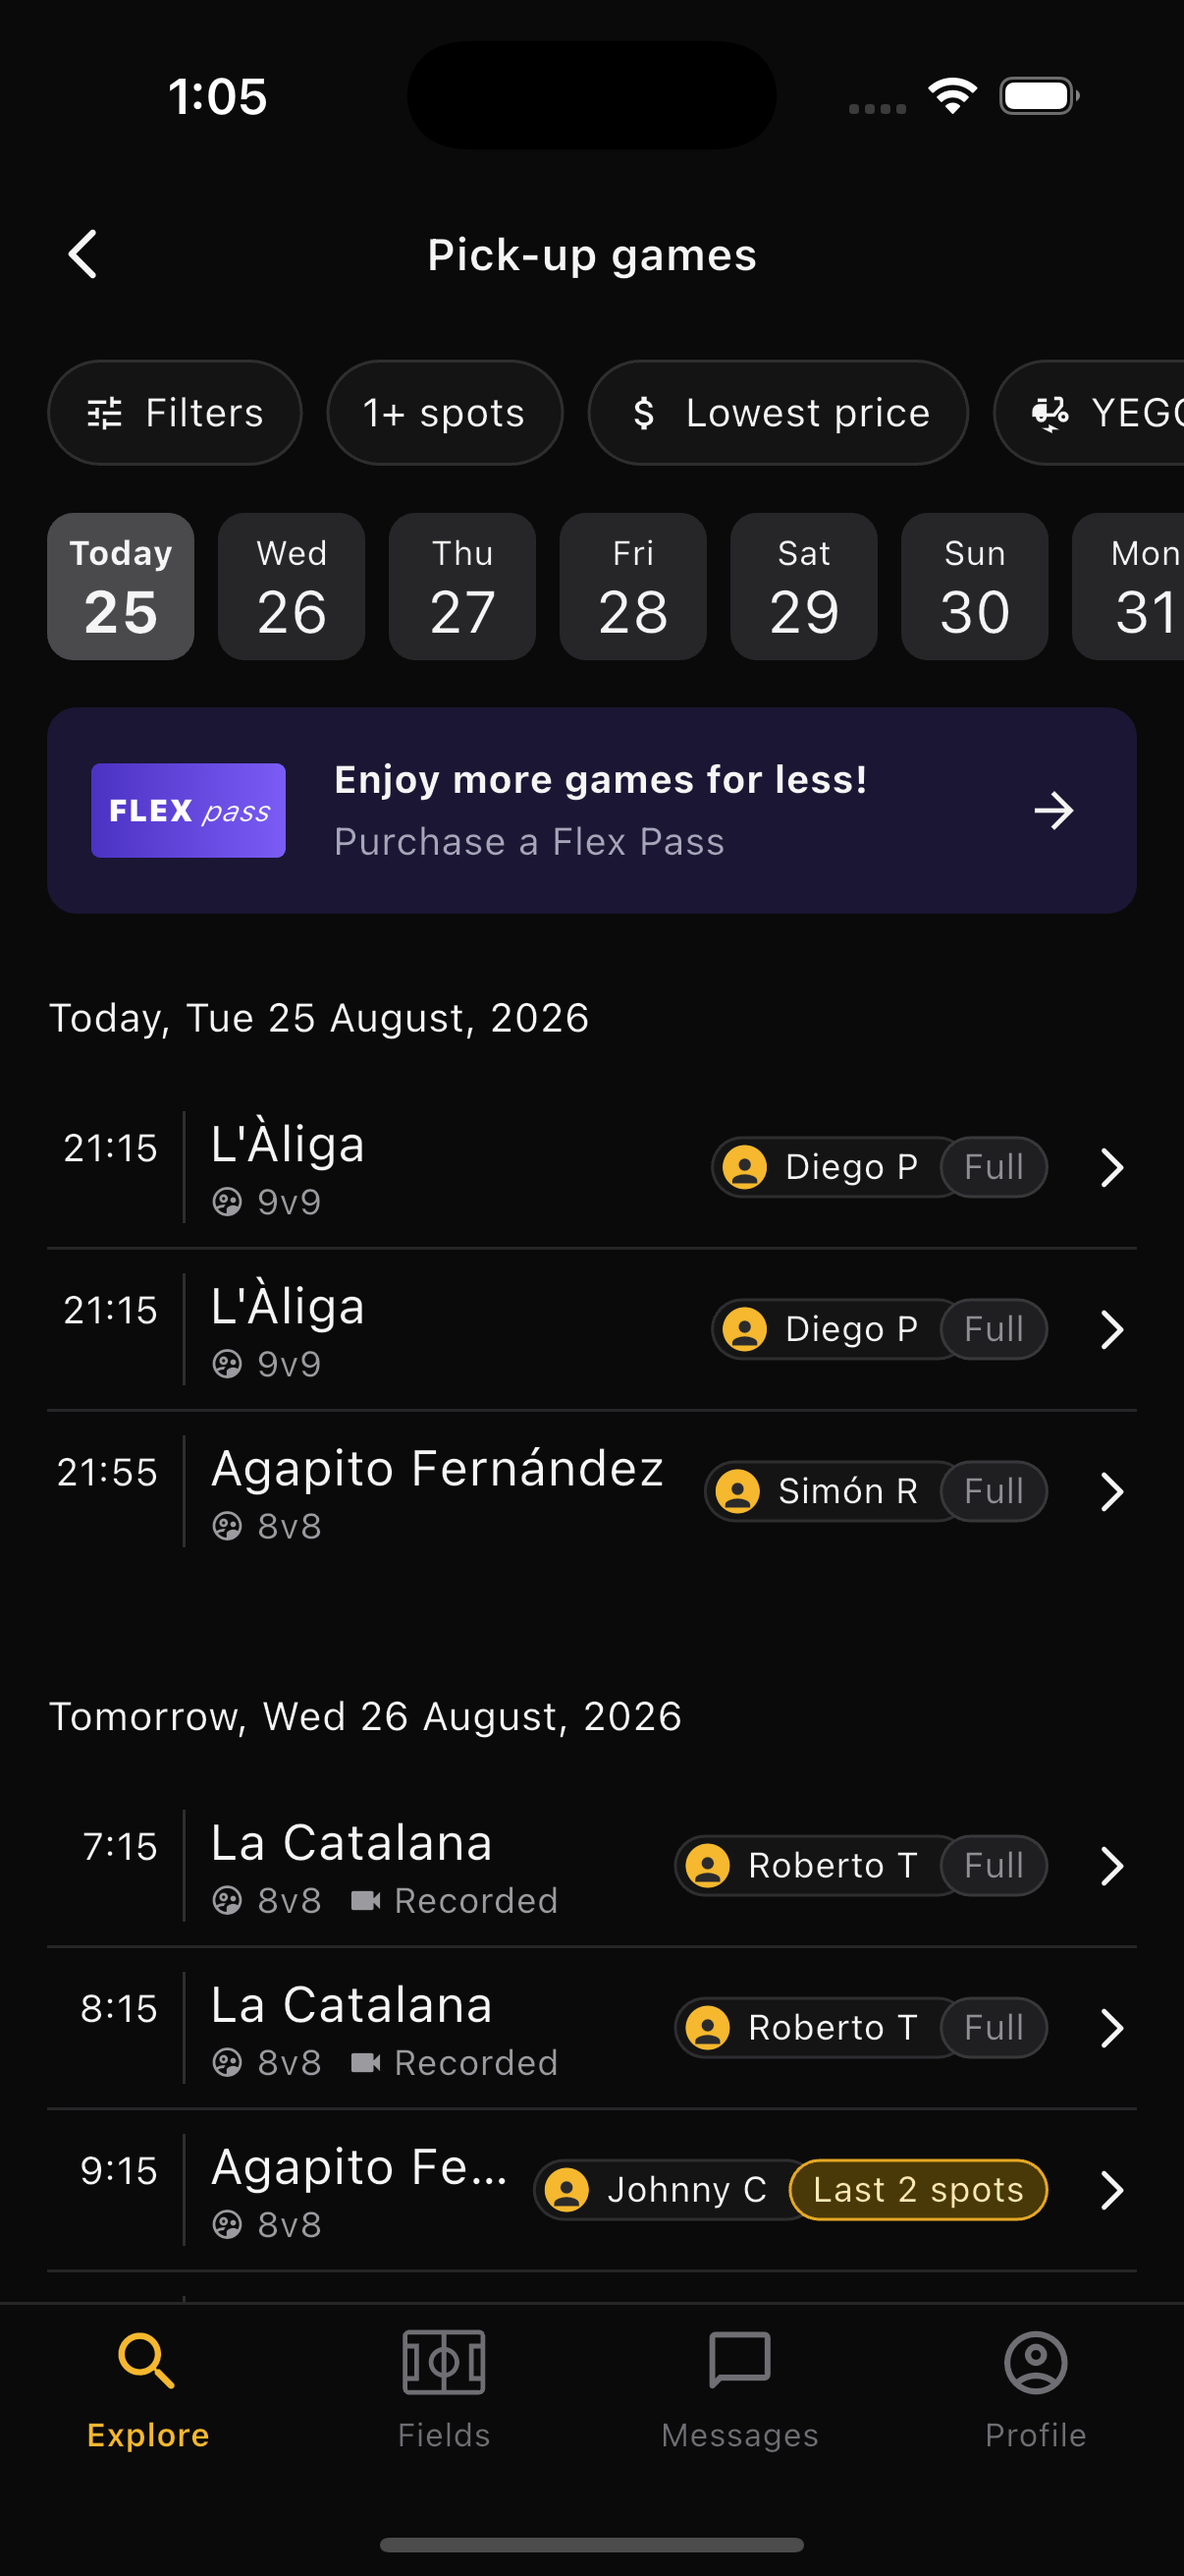
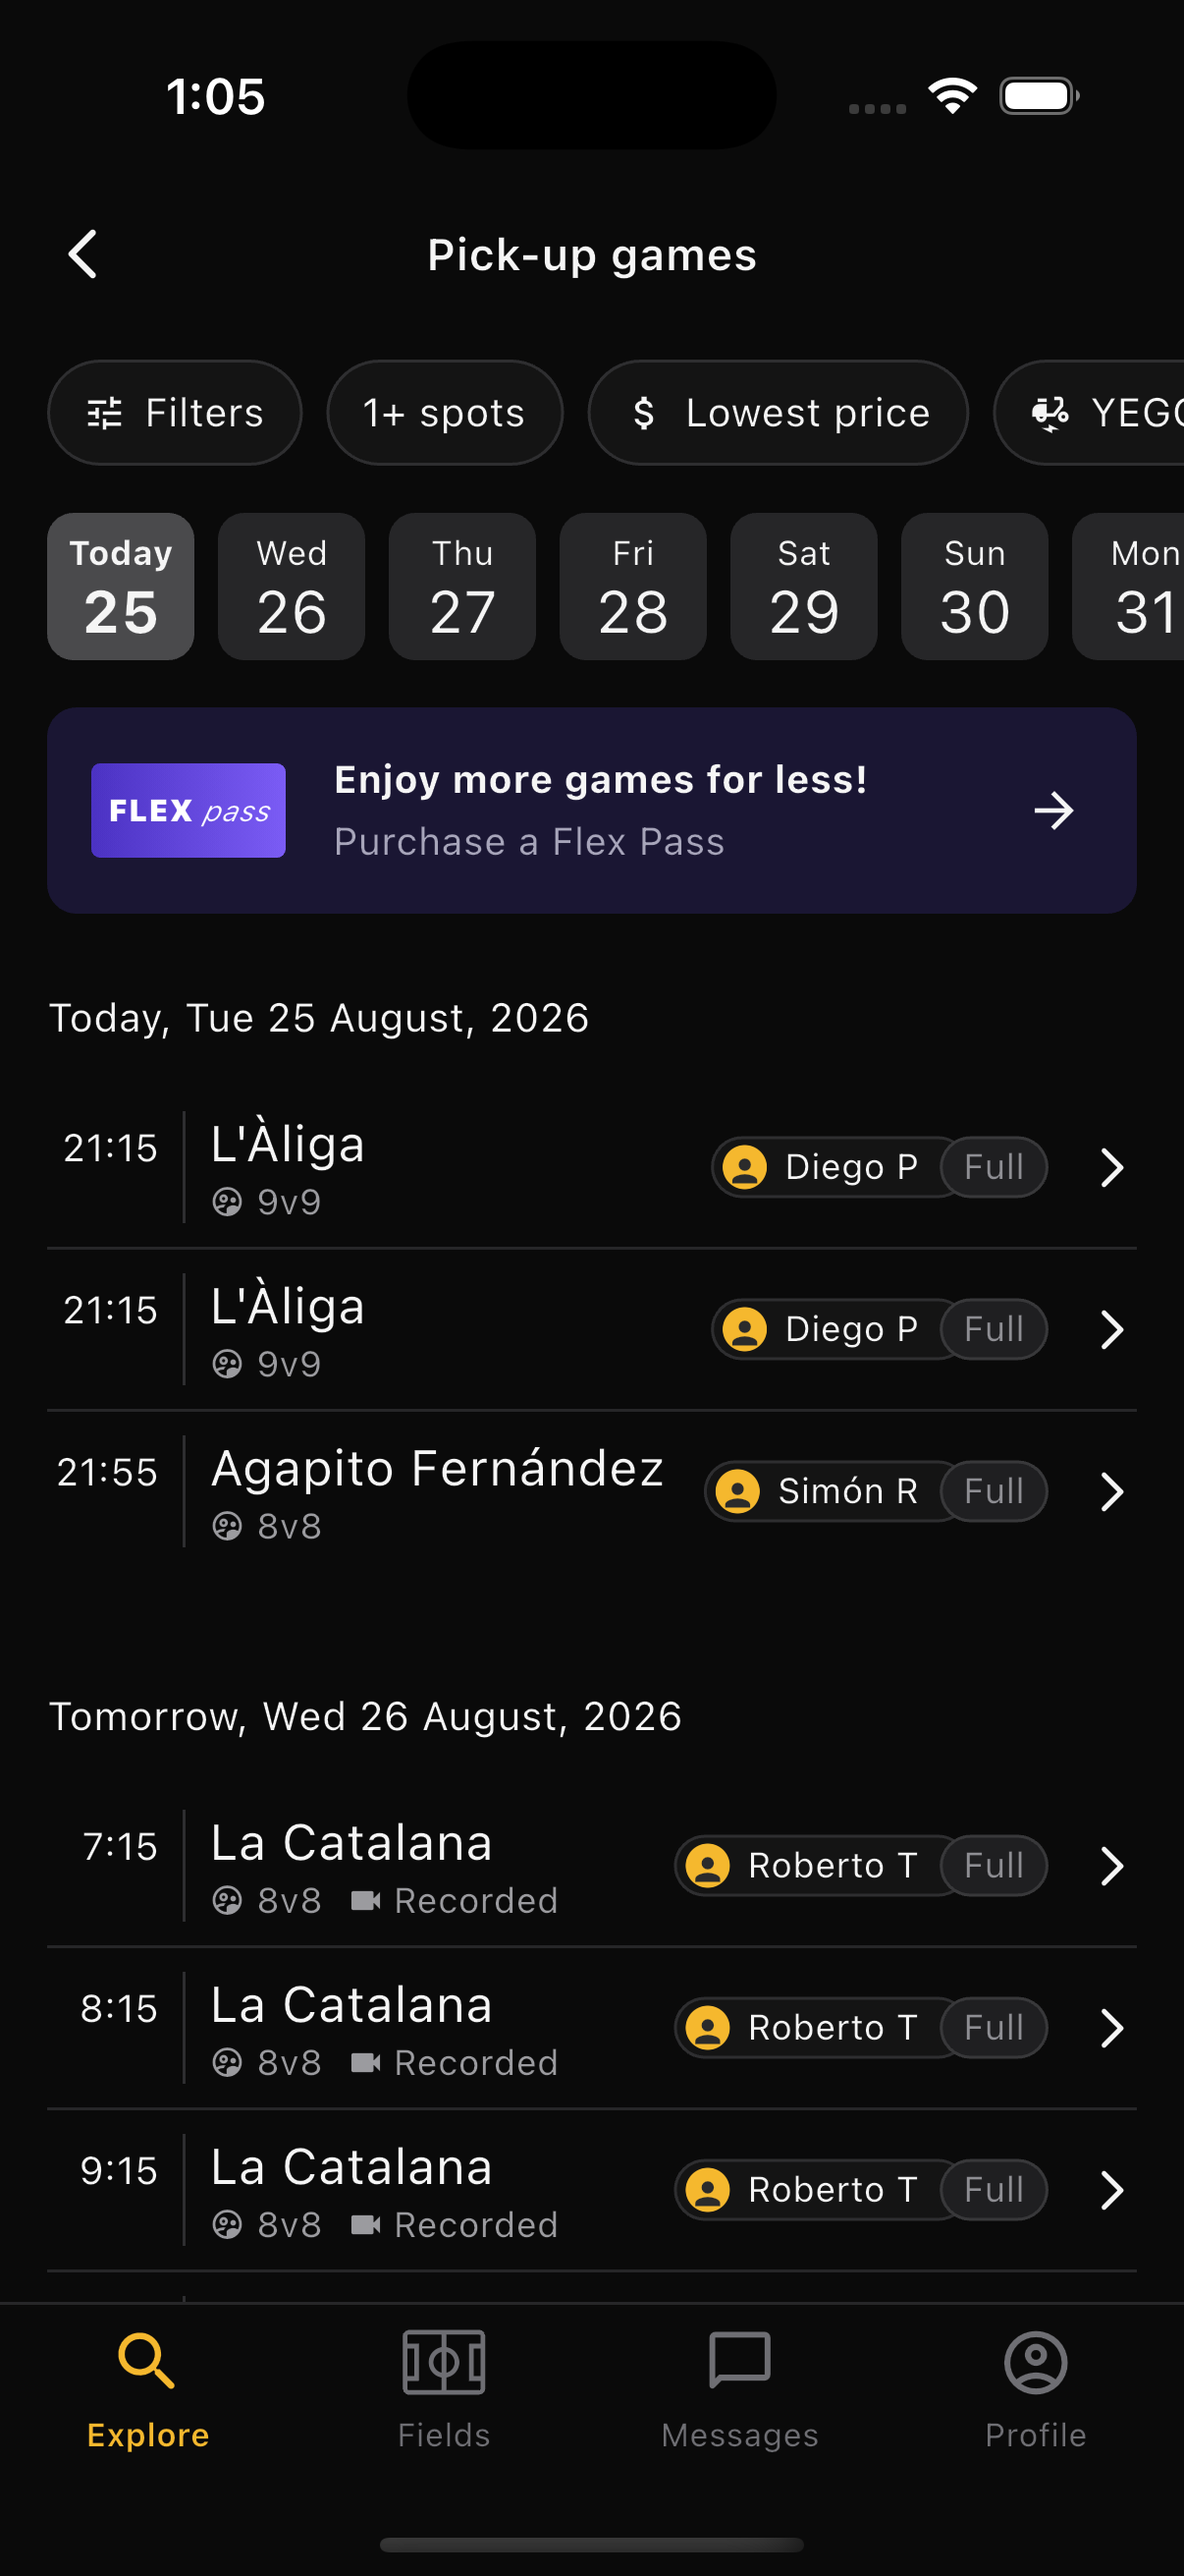
Games at the same kick-off keep their listing order, as in the design screenshots

Changed region(s): [[0.1841, 0.8341, 0.8897, 0.865], [0.3375, 0.9577, 0.675, 1.0], [0.1534, 0.0309, 0.2148, 0.0618]]

diff --git a/barcelona/api/src/seed-sql.ts b/barcelona/api/src/seed-sql.ts
@@ -9,10 +9,10 @@ out.push('insert into public.venues (id, name, address) values');
 out.push(d.venues.map((v) => `  (${q(v.id)}, ${q(v.name)}, ${q(v.address)})`).join(',\n') + '\non conflict (id) do update set name = excluded.name, address = excluded.address;');
 out.push('insert into public.organizers (id, display_name, avatar_url) values');
 out.push(d.organizers.map((o) => `  (${q(o.id)}, ${q(o.displayName)}, ${q(o.avatarUrl)})`).join(',\n') + '\non conflict (id) do update set display_name = excluded.display_name, avatar_url = excluded.avatar_url;');
-out.push('insert into public.games (id, starts_at, starts_at_local, duration_minutes, venue_id, format, organizer_id, spots_total, spots_available, is_recorded, price_eur) values');
-out.push(d.games.map((g) => `  (${q(g.id)}, ${q(g.startsAt)}, ${q(g.startsAt)}, ${g.durationMinutes}, ${q(g.venueId)}, ${q(g.format)}, ${q(g.organizerId)}, ${g.spotsTotal}, ${g.spotsAvailable}, ${g.isRecorded}, ${g.priceEur})`).join(',\n') + `
+out.push('insert into public.games (id, starts_at, starts_at_local, duration_minutes, venue_id, format, organizer_id, spots_total, spots_available, is_recorded, price_eur, list_position) values');
+out.push(d.games.map((g, i) => `  (${q(g.id)}, ${q(g.startsAt)}, ${q(g.startsAt)}, ${g.durationMinutes}, ${q(g.venueId)}, ${q(g.format)}, ${q(g.organizerId)}, ${g.spotsTotal}, ${g.spotsAvailable}, ${g.isRecorded}, ${g.priceEur}, ${i})`).join(',\n') + `
 on conflict (id) do update set starts_at = excluded.starts_at, starts_at_local = excluded.starts_at_local, duration_minutes = excluded.duration_minutes,
   venue_id = excluded.venue_id, format = excluded.format, organizer_id = excluded.organizer_id,
   spots_total = excluded.spots_total, spots_available = excluded.spots_available,
-  is_recorded = excluded.is_recorded, price_eur = excluded.price_eur;`);
+  is_recorded = excluded.is_recorded, price_eur = excluded.price_eur, list_position = excluded.list_position;`);
 console.log(out.join('\n'));

diff --git a/barcelona/api/src/domain.test.ts b/barcelona/api/src/domain.test.ts
@@ -20,6 +20,11 @@ test('single date filter returns only that day, sorted by time', async () => {
   assert.equal(games.at(-1)!.startTime, '18:45');
 });
 
+test('games that kick off together keep their listing order, as in the design', async () => {
+  const { games } = await repo.listGames({ date: '2026-08-26', startTimeFrom: '09:15', startTimeTo: '09:16' });
+  assert.deepEqual(games.map((g) => g.id), ['g-0826-0915-catalana', 'g-0826-0915-agapito']);
+});
+
 test('date range is inclusive', async () => {
   const { games } = await repo.listGames({ dateFrom: '2026-08-29', dateTo: '2026-08-30' });
   assert.deepEqual([...new Set(games.map((g) => g.date))], ['2026-08-29', '2026-08-30']);

diff --git a/barcelona/api/src/domain.ts b/barcelona/api/src/domain.ts
@@ -168,5 +168,7 @@ export function applyFilter(games: Game[], filter: Required<GamesFilter>): Game[
     .filter((g) => !filter.availability || filter.availability.includes(g.availability))
     .filter((g) => !filter.startTimeFrom || g.startTime >= filter.startTimeFrom)
     .filter((g) => !filter.startTimeTo || g.startTime < filter.startTimeTo)
-    .sort((a, b) => a.startsAt.localeCompare(b.startsAt) || a.id.localeCompare(b.id));
+    // Stable sort: games that kick off together keep their listing order (data/games.json),
+    // which is the order the design screenshots show.
+    .sort((a, b) => a.startsAt.localeCompare(b.startsAt));
 }

diff --git a/barcelona/api/src/repository.ts b/barcelona/api/src/repository.ts
@@ -140,7 +140,7 @@ export class PostgresGamesRepository implements GamesRepository {
                                           else 'AVAILABLE' end) = any($6))
          and ($7::text is null or g.local_start_time >= $7)
          and ($8::text is null or g.local_start_time < $8)
-       order by g.starts_at_local collate "C", g.id collate "C"`,
+       order by g.starts_at_local collate "C", g.list_position, g.id collate "C"`,
       [f.dateFrom, f.dateTo, f.venueId, f.venueName, f.minSpotsAvailable, f.availability,
         f.startTimeFrom, f.startTimeTo, URGENT_THRESHOLD],
     );

diff --git a/barcelona/api/src/schema.ts b/barcelona/api/src/schema.ts
@@ -105,7 +105,7 @@ export const typeDefs = /* GraphQL */ `
   type GamesResult {
     "Number of games matching the filter (before \\"first\\" is applied)."
     totalCount: Int!
-    "Matching games ordered by kick-off time ascending. Empty list when nothing matches."
+    "Matching games ordered by kick-off time ascending; games that kick off together keep their listing order. Empty list when nothing matches."
     games: [Game!]!
     appliedFilter: AppliedFilter!
   }

diff --git a/barcelona/README.md b/barcelona/README.md
@@ -163,7 +163,7 @@ The API is meant to be consumed by a language model, so it favors being **unambi
 5. **Empty is a normal answer.** Unknown venues or empty days return `totalCount: 0` and `games: []`, never null and never an error. `game(id)` returns null for a missing id.
 6. **Derived state lives on the server.** `availability` is a closed enum of `URGENT`, `AVAILABLE` and `FULL`, computed from `spotsAvailable`, so the app and the agent can't disagree on the thresholds.
 7. **Forgiving where it is safe.** `venueName` matching ignores case and accents, so "aliga" finds "L'Àliga". `venueId` gives an exact match. Filters combine with AND.
-8. **Bounded and ordered.** Results are sorted by kick-off. The `first` argument defaults to 100, capped at 500.
+8. **Bounded and ordered.** Results are sorted by kick-off, and games that kick off together keep their listing order, as in the design screenshots. The `first` argument defaults to 100, capped at 500.
 9. **Read-only.** There are no mutations, and the database sessions are read-only, so a model driving the API cannot change anything.
 
 ```graphql
@@ -375,7 +375,7 @@ Recorded on 2026-09-13 with `gemini-flash-lite-latest`, answered by `gemini-3.5-
 
 | Check | Result |
 |---|---|
-| API tests: filtering, validation, GraphiQL examples, PostgreSQL parity (`api`, `npm test`) | 12 passing. The 2 PostgreSQL tests skip when `DATABASE_URL` is unset |
+| API tests: filtering, validation, GraphiQL examples, PostgreSQL parity (`api`, `npm test`) | 13 passing. The 2 PostgreSQL tests skip when `DATABASE_URL` is unset |
 | Agent tests: date resolution, tool loop with a scripted model, quota handling, grounding check (`agent`, `npm test`) | 15 passing |
 | Flutter analyzer and tests (`app`, `flutter analyze`, `flutter test`) | 0 issues, 10 passing |
 | App on the iOS simulator against the live API | Both screens, "1+ spots", date jump, row detail and tab bar all work |
@@ -430,6 +430,7 @@ The five areas below each start with what already exists, checked against the co
 **In place:**
 - Three tables with foreign keys and check constraints. The checks cover spot ranges, non-negative prices, the local time format, and agreement between the UTC and local kick-off times.
 - Two generated columns, `local_date` and `local_start_time`, carry the local date and kick-off time. They are indexed, along with the venue and organizer keys.
+- A `list_position` column keeps the listing order for games that kick off at the same time.
 - The `unaccent` extension handles the accent-insensitive venue search.
 - Filtering runs in SQL, API sessions are read-only, and the seed can be re-run safely.
 
